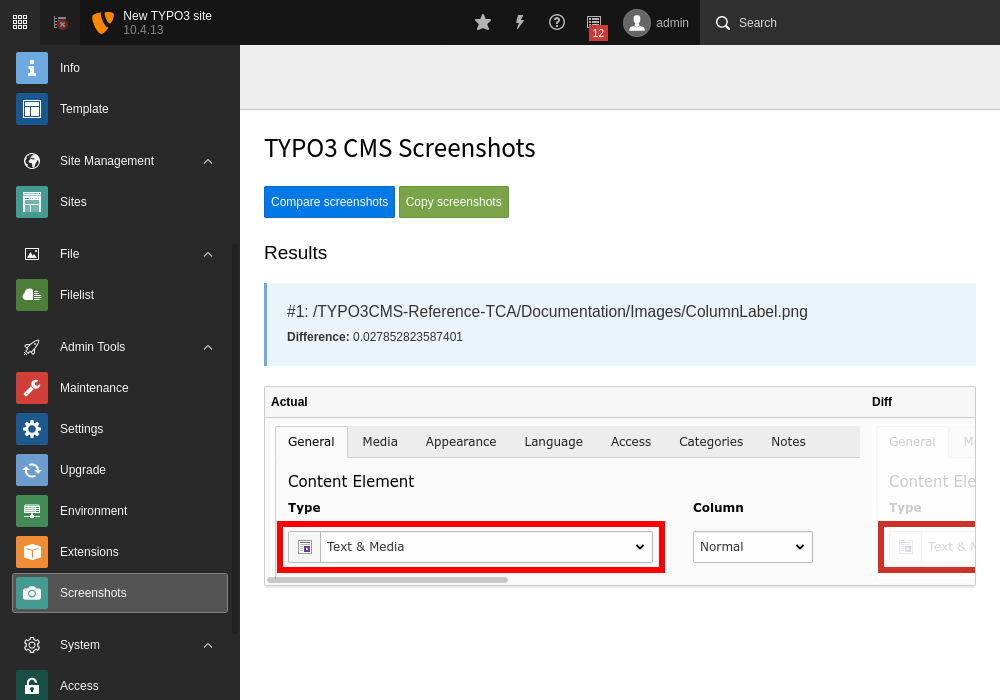
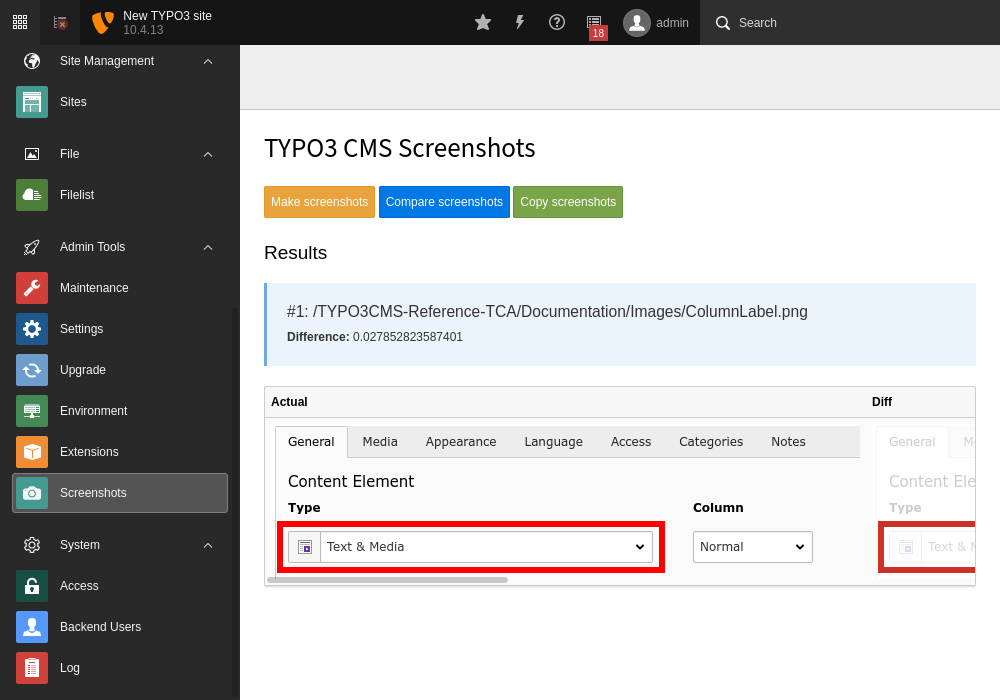
[FEATURE] Add "Make screenshots" feature to backend module "Screenshots"
- new button "Make screenshots"
- handle requests directly in action methods
- add a separate template for each action as result presentation is quite different

diff --git a/packages/screenshots/Resources/Private/Templates/ImageCopy/Compare.html b/packages/screenshots/Resources/Private/Templates/ImageCopy/Compare.html
@@ -1,0 +1,43 @@
+<html xmlns:f="http://typo3.org/ns/TYPO3/CMS/Fluid/ViewHelpers" data-namespace-typo3-fluid="true">
+<f:layout name="Screenshots" />
+<f:section name="Content">
+    <div>
+        <f:form>
+            <f:link.action action="make" class="btn btn-warning">Make screenshots</f:link.action>
+            <f:link.action action="compare" class="btn btn-primary">Compare screenshots</f:link.action>
+            <f:link.action action="copy" class="btn btn-success">Copy screenshots</f:link.action>
+        </f:form>
+    </div>
+    <h2>Results</h2>
+    <f:if condition="{images}">
+        <f:then>
+            <f:for each="{images}" as="image" iteration="iteration">
+                <f:be.infobox title="#{iteration.cycle}: {image.paths.relative}" state="-1" disableIcon="TRUE">
+                    <b>Difference:</b> {image.difference}
+                </f:be.infobox>
+                <div class="panel panel-default">
+                    <div class="table-fit">
+                        <table class="table table-striped table-hover">
+                            <tr>
+                                <th>Actual</th>
+                                <th>Diff</th>
+                                <th>Original</th>
+                            </tr>
+                            <tr>
+                                <td><f:image src="{image.urls.actual}" /></td>
+                                <td><f:image src="{image.urls.diff}" /></td>
+                                <td><f:image src="{image.urls.original}" /></td>
+                            </tr>
+                        </table>
+                    </div>
+                </div>
+            </f:for>
+        </f:then>
+        <f:else>
+            <f:be.infobox state="-1">
+                All generated images match with the original images.
+            </f:be.infobox>
+        </f:else>
+    </f:if>
+</f:section>
+</html>

diff --git a/packages/screenshots/Resources/Private/Templates/ImageCopy/Make.html b/packages/screenshots/Resources/Private/Templates/ImageCopy/Make.html
@@ -1,0 +1,30 @@
+<html xmlns:f="http://typo3.org/ns/TYPO3/CMS/Fluid/ViewHelpers" data-namespace-typo3-fluid="true">
+<f:layout name="Screenshots" />
+<f:section name="Content">
+    <div>
+        <f:form>
+            <f:link.action action="make" class="btn btn-warning">Make screenshots</f:link.action>
+            <f:link.action action="compare" class="btn btn-primary">Compare screenshots</f:link.action>
+            <f:link.action action="copy" class="btn btn-success">Copy screenshots</f:link.action>
+        </f:form>
+    </div>
+    <h2>Result</h2>
+    <f:if condition="{resultCode} == 0">
+        <f:then>
+            <f:be.infobox state="0">
+                Successfully created screenshots. You will probably compare them with the original ones
+                <f:link.action action="compare">next</f:link.action>.
+            </f:be.infobox>
+        </f:then>
+        <f:else>
+            <f:be.infobox state="2">
+                Creating screenshots has failed. Please find the details below.
+            </f:be.infobox>
+        </f:else>
+    </f:if>
+    <h3>Details</h3>
+    <div>
+        <pre style="background-color: black;"><f:format.htmlentitiesDecode>{outputHtml}</f:format.htmlentitiesDecode></pre>
+    </div>
+</f:section>
+</html>

diff --git a/packages/screenshots/Resources/Private/Templates/ImageCopy/Copy.html b/packages/screenshots/Resources/Private/Templates/ImageCopy/Copy.html
@@ -9,8 +9,17 @@
         </f:form>
     </div>
     <h2>Results</h2>
-    <f:be.infobox state="-2">
-        Nothing done yet. Please choose an action.
-    </f:be.infobox>
+    <f:if condition="{files}">
+        <f:then>
+            <f:be.infobox state="0">
+                {files -> f:count()} images copied.
+            </f:be.infobox>
+        </f:then>
+        <f:else>
+            <f:be.infobox state="-1">
+                No images copied.
+            </f:be.infobox>
+        </f:else>
+    </f:if>
 </f:section>
 </html>

diff --git a/packages/screenshots/Classes/Controller/ImageCopyController.php b/packages/screenshots/Classes/Controller/ImageCopyController.php
@@ -3,8 +3,8 @@
 declare(strict_types=1);
 namespace TYPO3\CMS\Screenshots\Controller;
 
+use SensioLabs\AnsiConverter\AnsiToHtmlConverter;
 use TYPO3\CMS\Backend\View\BackendTemplateView;
-use TYPO3\CMS\Core\Authentication\BackendUserAuthentication;
 use TYPO3\CMS\Core\Utility\GeneralUtility;
 use TYPO3\CMS\Extbase\Mvc\Controller\ActionController;
 use TYPO3\CMS\Extbase\Mvc\View\ViewInterface;
@@ -25,14 +25,7 @@ class ImageCopyController extends ActionController
      */
     protected $view;
 
-    /**
-     * @var int Current page id
-     */
-    protected $pageUid = 0;
-
     protected $threshold = 0.0002;
-
-    protected $images = [];
 
     /**
      * Set up the doc header properly here
@@ -47,39 +40,33 @@ class ImageCopyController extends ActionController
         }
     }
 
-    /**
-     * Function will be called before every other action
-     */
-    public function initializeAction()
+    public function indexAction()
     {
-        $this->pageUid = (int)GeneralUtility::_GET('id');
-
-        parent::initializeAction();
     }
 
-    public function indexAction(bool $compare = false, bool $copy = false)
+    public function makeAction():void
     {
-        if ($compare) {
-            $this->compare();
-        }
+        $command = 'typo3DatabaseName=func_test typo3DatabaseUsername=root typo3DatabasePassword=root typo3DatabaseHost=db ' .
+            '/var/www/html/vendor/bin/codecept run -d -c /var/www/html/public/typo3conf/ext/screenshots/Tests/codeception.yml';
 
-        if ($copy) {
-            $this->copy();
-        }
+        $output = sprintf('$ %s', $command) . "\n";
+        exec($command . " 2>&1", $outputArray, $resultCode);
+        $output .= implode("\n", $outputArray);
 
-        $this->view->assignMultiple([
-            'pageUid' => $this->pageUid,
-            'images' => $this->images
-        ]);
+        $converter = new AnsiToHtmlConverter();
+        $outputHtml = $converter->convert($output);
+
+        $this->view->assign('outputHtml', $outputHtml);
+        $this->view->assign('resultCode', $resultCode);
     }
 
-    protected function compare():void
+    public function compareAction():void
     {
         $folderOriginal = 't3docs';
         $folderActual = 't3docs-generated/actual';
         $folderDiff = 't3docs-generated/diff';
 
-        $this->images = [];
+        $images = [];
 
         GeneralUtility::rmdir(GeneralUtility::getFileAbsFileName($folderDiff), true);
         $files = GeneralUtility::getAllFilesAndFoldersInPath([], GeneralUtility::getFileAbsFileName($folderActual) . '/');
@@ -106,22 +93,22 @@ class ImageCopyController extends ActionController
             if ($diff[1] > $this->threshold) {
                 GeneralUtility::mkdir_deep(dirname($paths['diff']));
                 GeneralUtility::writeFile($paths['diff'], $diff[0]);
-                $this->images[] = [
+                $images[] = [
                     'difference' => $diff[1],
                     'paths' => $paths,
                     'urls' => $urls
                 ];
             }
         }
+
+        $this->view->assign('images', $images);
     }
 
-    protected function copy():void
+    public function copyAction():void
     {
         $folderOriginal = 't3docs';
         $folderActual = 't3docs-generated/actual';
         $folderDiff = 't3docs-generated/diff';
-
-        $this->images = [];
 
         $files = GeneralUtility::getAllFilesAndFoldersInPath([], GeneralUtility::getFileAbsFileName($folderActual) . '/');
 
@@ -137,23 +124,7 @@ class ImageCopyController extends ActionController
 
             copy($paths['actual'], $paths['original']);
         }
-    }
 
-    public function compareAction():void
-    {
-        $this->forward('index', null, null, ['compare' => true]);
-    }
-
-    public function copyAction():void
-    {
-        $this->forward('index', null, null, ['copy' => true]);
-    }
-
-    /**
-     * @return BackendUserAuthentication
-     */
-    protected function getBackendUserAuthentication()
-    {
-        return $GLOBALS['BE_USER'];
+        $this->view->assign('files', $files);
     }
 }

diff --git a/packages/screenshots/ext_tables.php b/packages/screenshots/ext_tables.php
@@ -8,7 +8,7 @@ defined('TYPO3_MODE') or die();
     'screenshots',
     '',
     [
-        \TYPO3\CMS\Screenshots\Controller\ImageCopyController::class => 'index, compare, copy',
+        \TYPO3\CMS\Screenshots\Controller\ImageCopyController::class => 'index, make, compare, copy',
     ],
     [
         'access' => 'user,group',
